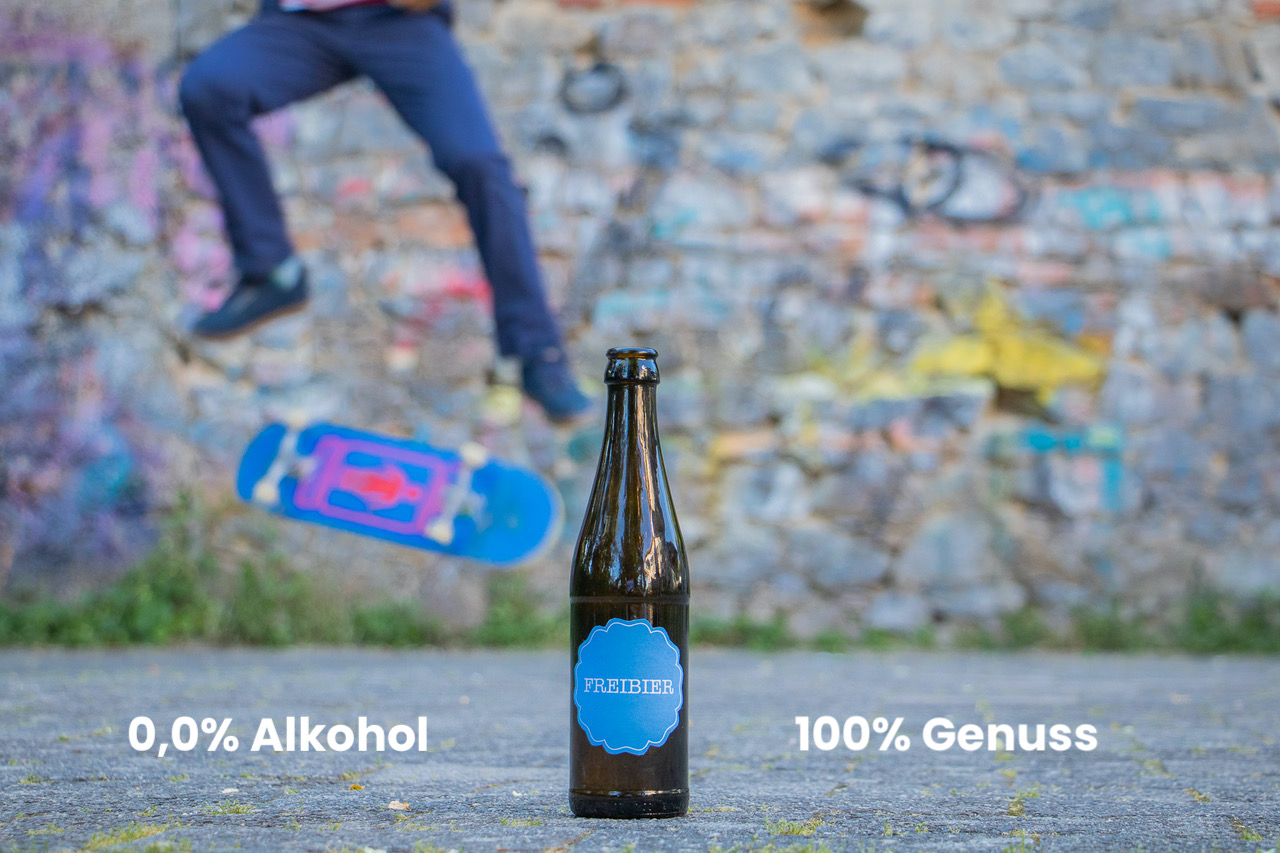
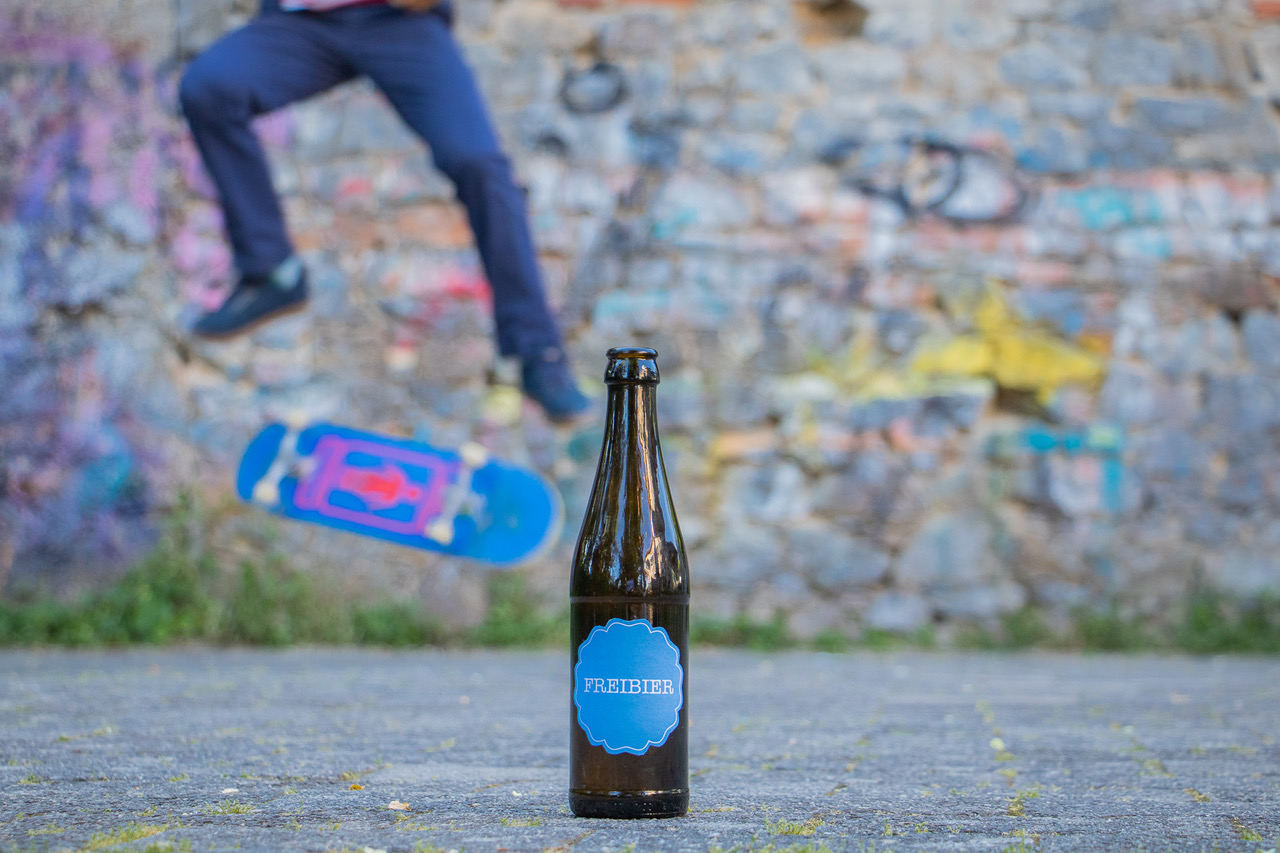
Text auf Bild / H1 bearbeitet

Changed region(s): [[0.0938, 0.823, 0.3438, 0.8839], [0.625, 0.823, 0.875, 0.8839]]

diff --git a/css/style.css b/css/style.css
@@ -62,8 +62,7 @@ body {
   background-size: cover;
   position: relative;
   min-height: 380px;
-  height: 720px;
-  width: 100%;
+  height: 960px;
 }
 
 .container {
@@ -71,4 +70,35 @@ body {
   margin: 20px;
   width: auto;
   height: 100%;
+}
+
+.bottom-left {
+  position: absolute;
+  bottom: 100px;
+  left: 80px;
+  font-family: "poppins" , sans-serif;
+  font-size: 60px;
+  color: white;
+}
+
+.bottom-right {
+  position: absolute;
+  bottom: 100px;
+  right: 80px;
+  font-family: "poppins" , sans-serif;
+  font-size: 60px;
+  color: white;
+}
+
+.blue-text {
+  color: #6EB1E2;
+}
+
+h1 {
+  font-family: "poppins" , sans-serif;
+  font-size: 50px;
+  padding-top: 50px;
+  padding-bottom: 50px;
+  font-style: italic;
+  text-align: center;
 }

diff --git a/freibierhack.html b/freibierhack.html
@@ -21,9 +21,11 @@
   <a class="kontakt" href="#">KONTAKT</a>
 </div>
 </div>
+<div class="bottom-left">0,0% ALKOHOL</div>
+<div class="bottom-right">100% GENUSS</div>
 </div>
 
-<h1>Authentischer Geschmack und die volle Kontrolle</h1>
+<h1 class="blue-text">Authentischer Geschmack und die volle Kontrolle</h1>
 
 <img></img>
 
